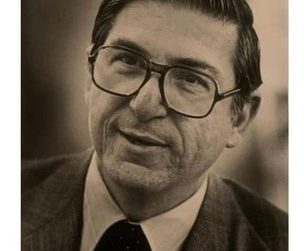
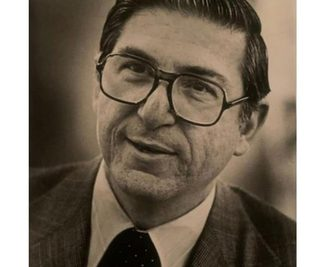
James reverted

diff --git a/index.html b/index.html
@@ -309,7 +309,7 @@
         <section class="experience-section"><div class="section-container"><div class="section-header"><h2 class="section-title">Professional Background</h2><div class="divider"></div></div><div class="experience-timeline"><div class="experience-item"><div class="experience-date">2023 – Present</div><div class="experience-content"><h4>Founder & Chairman</h4><p class="experience-org">Likoudis Legacy Foundation (501(c)(3))</p><p>Built a research institute from scratch—recruited board members and a nine-person advisory council of theologians, launched an academic journal and fellows program, and established the Foundation as a respected voice in Catholic ecumenical scholarship.</p></div></div><div class="experience-item"><div class="experience-date">Jun – Aug 2025</div><div class="experience-content"><h4>Summer Intern, News & Analysis</h4><p class="experience-org">EWTN / National Catholic Register</p><p>Produced 17 published articles covering policy, governance, ethics, and emerging technology. Reported from the field on breaking stories and conducted interviews with Catholic leaders.</p></div></div><div class="experience-item"><div class="experience-date">2022 – 2026</div><div class="experience-content"><h4>Young Adult Representative</h4><p class="experience-org">Archdiocesan Pastoral Council, Archdiocese of Baltimore</p><p>One of four at-large positions on the fourteen-member council advising Archbishop Lori. Brought the perspective of young adult Catholics to archdiocesan strategic discussions and pastoral initiatives.</p></div></div><div class="experience-item"><div class="experience-date">May – Dec 2023</div><div class="experience-content"><h4>Development Administrative Assistant</h4><p class="experience-org">Cathedral of Mary Our Queen</p><p>Supported a $5 million capital campaign—managed donor communications, coordinated events, maintained the giving database, and assisted with grant writing and compliance documentation.</p></div></div><div class="experience-item"><div class="experience-date">Sept – Dec 2022</div><div class="experience-content"><h4>Fellow, Marketing Development</h4><p class="experience-org">Goldman Sachs 10,000 Small Businesses</p><p>Supported TargetGov, a government contracting firm, with marketing strategy, procurement research, and client database expansion using Salesforce, Mailchimp, and Basecamp.</p></div></div><div class="experience-item"><div class="experience-date">Mar – Sept 2022</div><div class="experience-content"><h4>Fellow, Economic Development</h4><p class="experience-org">Johns Hopkins University / Bloomberg Philanthropies</p><p>Contributed to a Bloomberg-backed workforce development initiative in collaboration with Julep Consulting. Produced policy memos and procurement research for a Johns Hopkins–Goldman Sachs–Baltimore City partnership.</p></div></div><div class="experience-item"><div class="experience-date">2017 – Present</div><div class="experience-content"><h4>Hospitality Host & Property Manager</h4><p class="experience-org">Airbnb Superhost</p><p>Nearly a decade managing short-term rental operations across multiple properties—handling guest relations, property maintenance, and financial performance.</p></div></div></div></div></section>
         <section style="padding:3.5rem 1.5rem"><div class="section-container"><div class="section-header"><h2 class="section-title">Building on a Legacy of Faith</h2><div class="divider"></div></div><div style="max-width:900px;margin:0 auto;display:grid;grid-template-columns:repeat(2,1fr);gap:2rem">
 <div style="background:#fff;padding:1.5rem;border-radius:6px;box-shadow:0 8px 25px -8px rgba(0,0,0,.1);border-left:3px solid var(--gold);text-align:center">
-<img src="photo-james-likoudis.jpg" alt="James Likoudis" style="width:100px;height:100px;border-radius:50%;object-fit:cover;object-position:center 25%;border:2px solid rgba(201,169,98,.3);margin-bottom:1rem" loading="lazy">
+<img src="photo-james-likoudis.jpg" alt="James Likoudis" style="width:100px;height:100px;border-radius:50%;object-fit:cover;object-position:center 20%;border:2px solid rgba(201,169,98,.3);margin-bottom:1rem" loading="lazy">
 <h4 style="font-family:'Cormorant Garamond',serif;font-size:1.2rem;color:var(--burgundy);margin-bottom:.5rem">James Likoudis <span style="font-size:.85rem;color:var(--text-light)">(1928–2024)</span></h4>
 <p style="font-size:.85rem;color:var(--text-light);margin-bottom:.75rem"><em>Grandfather</em></p>
 <p style="font-size:.9rem">President Emeritus of <strong>Catholics United for the Faith</strong>. Convert from Greek Orthodoxy who became a leading voice for Catholic-Orthodox reunion. His lifelong work defending <strong>Vatican II</strong>, the <strong>liturgical reform</strong>, and reconciling Catholics and Eastern Orthodox earned him an honorary <strong>Doctorate of Divinity</strong> from Sacred Heart Major Seminary.</p>
